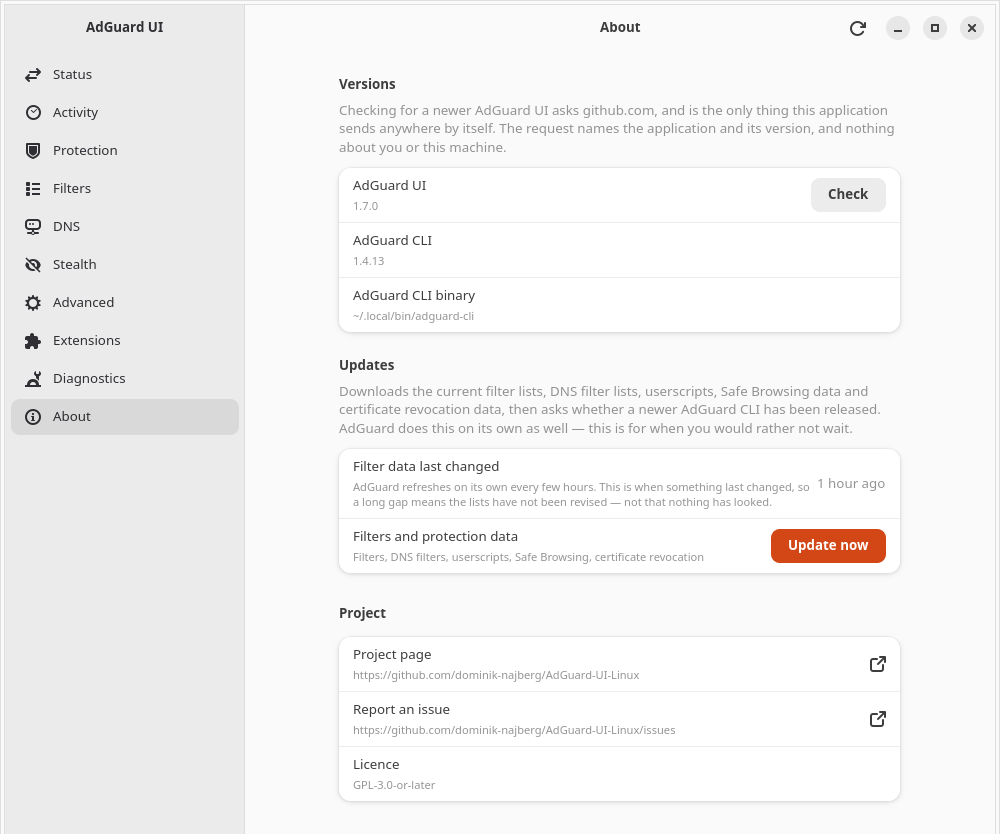
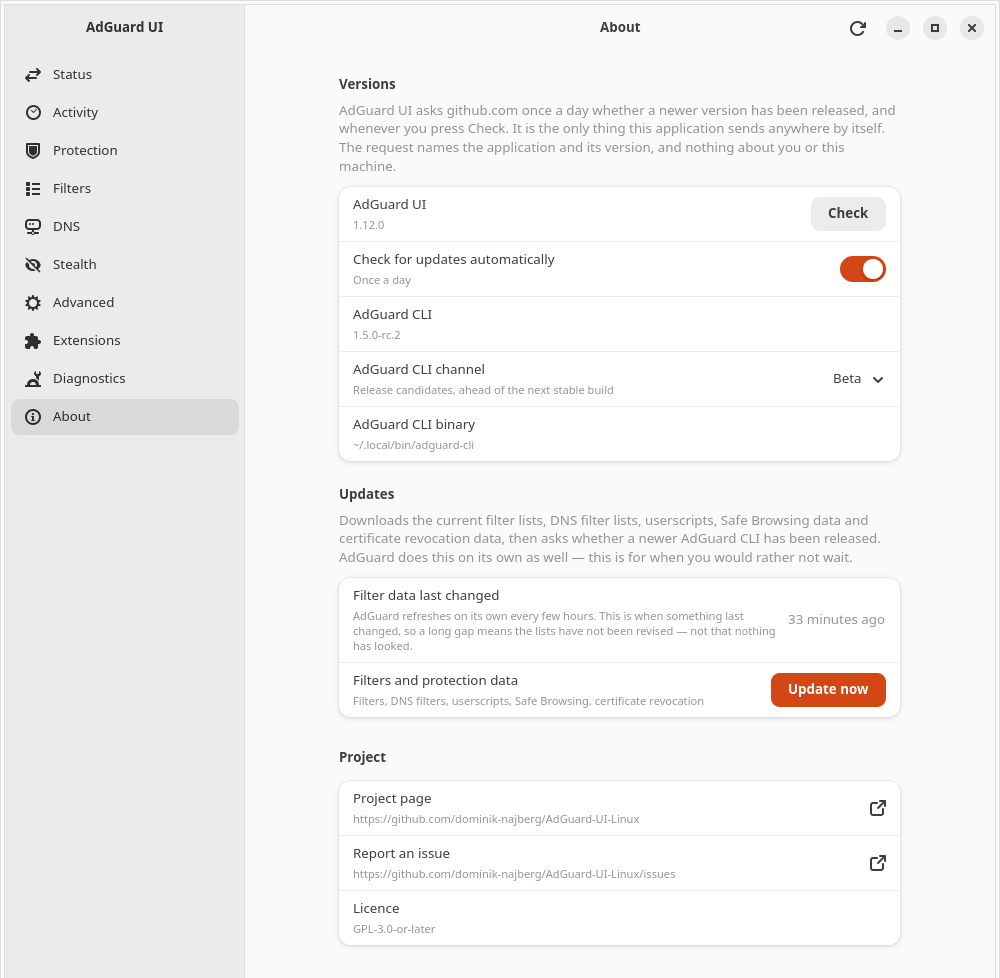
Release 1.12.0

diff --git a/CHANGELOG.md b/CHANGELOG.md
@@ -11,6 +11,28 @@ This file is the one changelog.
 
 ---
 
+## 1.12.0 — 17 October 2026
+
+### Install AdGuard CLI from the window
+
+When AdGuard CLI is not installed, the window no longer just says so. It offers *Install AdGuard CLI…*, which opens a terminal running the command from AdGuard's knowledge base, unchanged. You can pick the release, beta or nightly version first. AdGuard's installer downloads AdGuard CLI from GitHub, asks for your password to create `/opt/adguard-cli`, and asks whether to link it into `/usr/local/bin`. The password goes to the terminal, never to AdGuard UI. If no terminal can be found, the command is copied instead. The window notices the install by itself and moves on to activation and setup. On CPUs AdGuard does not build for, the page explains why there is no button. ([#51](https://github.com/dominik-najberg/AdGuard-UI-Linux/issues/51))
+
+### AdGuard CLI in `/opt` is found
+
+AdGuard UI now also looks for AdGuard CLI in `/opt/adguard-cli`, where AdGuard's installer puts it. Before, an install whose `/usr/local/bin` link had been declined was reported as missing.
+
+### Switch AdGuard CLI's update channel
+
+The About page has an *AdGuard CLI channel* row under the CLI's version: Release, Beta or Nightly, AdGuard's own update channel setting. Switching downloads nothing. AdGuard UI asks AdGuard straight away whether that channel has a newer build, and shows the answer beside the version. When there is one, the command that installs it is directly below, with *Run in Terminal* to open it in a terminal. AdGuard UI never runs that update by itself.
+
+### AdGuard's update notice no longer shows up in the app
+
+When a newer AdGuard CLI is available, AdGuard adds a two-line notice to everything it prints. AdGuard UI read those lines as part of the output. The About page's version row would have carried them, and starting, stopping or restarting protection would have answered with "You can update AdGuard CLI by running…". AdGuard UI now takes the notice out before reading anything, and shows it once, on the About page. It appears on Beta and Nightly today, and on Release as soon as AdGuard publishes a version after 1.4.13.
+
+### The version row reads AdGuard CLI 1.5 correctly
+
+AdGuard CLI 1.5 prints a list of its internal components under its version number, and the About page showed the whole list in the version row. It now shows the version alone.
+
 ## 1.11.2 — 15 October 2026
 
 ### Activity counts the requests of a browser updated while it runs

diff --git a/README.md b/README.md
@@ -29,13 +29,13 @@ Every release carries a `.deb`, an `.rpm` and a tarball for `~/.local`, each bui
 On Ubuntu and Debian:
 
 ```bash
-sudo apt-get install ./adguard-ui_1.11.2_amd64.deb
+sudo apt-get install ./adguard-ui_1.12.0_amd64.deb
 ```
 
 On Fedora:
 
 ```bash
-sudo dnf install ./adguard-ui-1.11.2-1.x86_64.rpm
+sudo dnf install ./adguard-ui-1.12.0-1.x86_64.rpm
 ```
 
 [**Releases**](https://github.com/dominik-najberg/AdGuard-UI-Linux/releases) · [`CHANGELOG.md`](CHANGELOG.md). `apt-get install` and `dnf install` rather than `dpkg -i` or `rpm -i`, because they resolve the dependencies the package declares; the path has to start with `./` or they look the name up in the distribution's repositories instead. The tarball is the unprivileged route: extract it and run its `install.sh`, which writes under `~/.local` and never asks for a password.
@@ -138,7 +138,7 @@ Three groups at the foot of that page do more than set a key:
 
 ![The Diagnostics page](docs/screenshots/diagnostics.png)
 
-**About** — the two version numbers this application had never shown anywhere: its own, and the AdGuard CLI's, with the path the CLI was found at. Below them, one button that updates AdGuard's filter lists, DNS filter lists, userscripts, Safe Browsing data and certificate revocation data, and asks whether a newer AdGuard CLI has been released.
+**About** — the two version numbers this application had never shown anywhere: its own, and the AdGuard CLI's, with AdGuard CLI's update channel and the path the CLI was found at. The frame is the reference machine on the beta channel, running AdGuard CLI 1.5.0-rc.2. Below them, one button that updates AdGuard's filter lists, DNS filter lists, userscripts, Safe Browsing data and certificate revocation data, and asks whether a newer AdGuard CLI has been released.
 
 ![The About page](docs/screenshots/about.png)
 

diff --git a/docs/building.md b/docs/building.md
@@ -604,7 +604,7 @@ A release is a tag. Everything else — building the three packages in clean con
 Four things happen before the tag, and all four are on the machine, not on the runner:
 
 ```bash
-cargo test --workspace --locked                 # 629 pass, 69 ignored
+cargo test --workspace --locked                 # 644 pass, 70 ignored
 make package                                    # the .deb and tarball build here first
 git status --porcelain                          # must be empty
 git log --oneline -1
